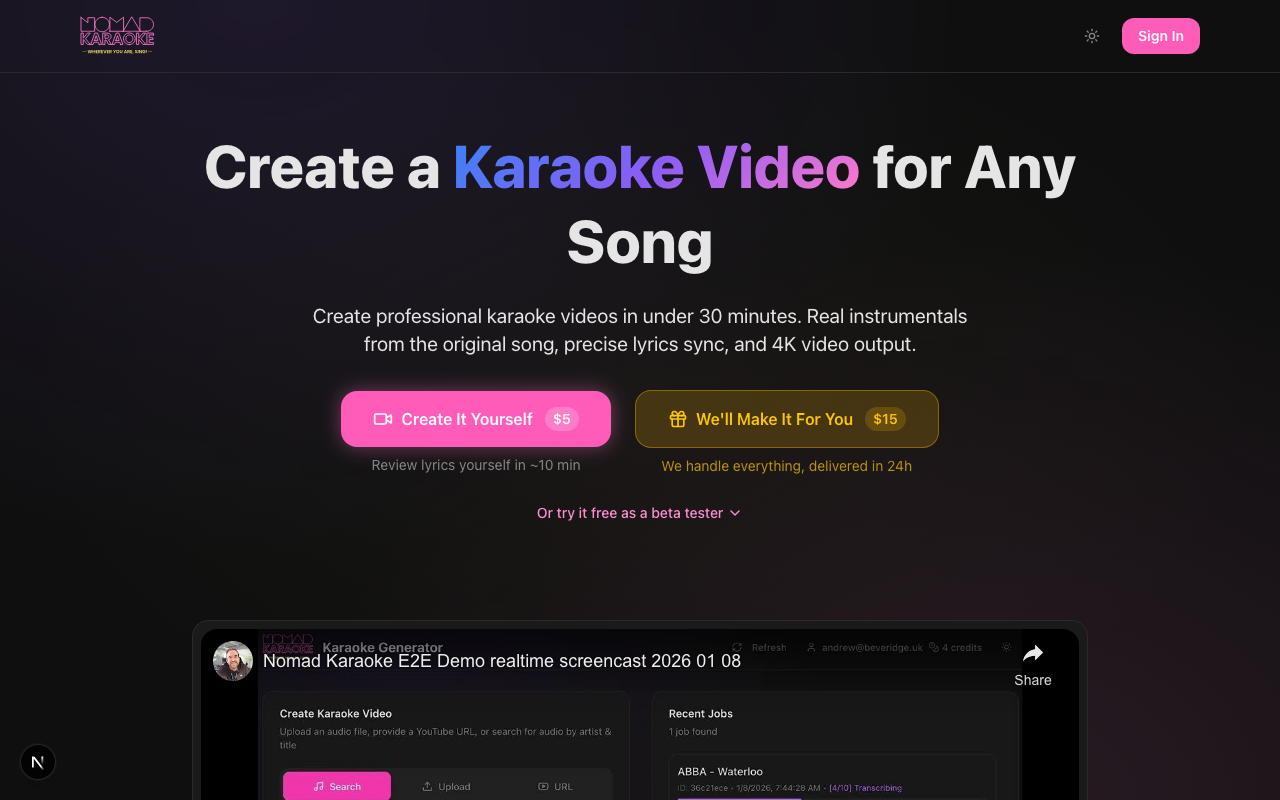
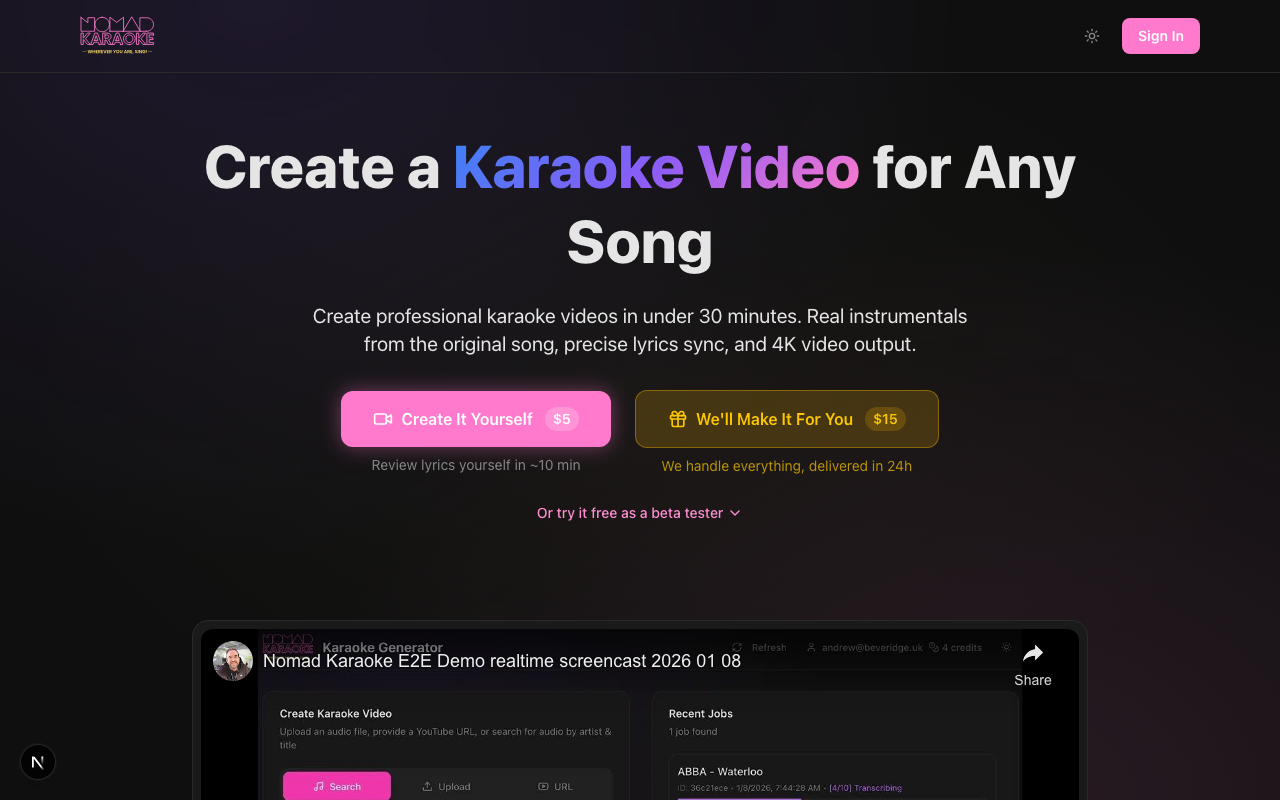
feat: add toggle to hide completed jobs in Recent Jobs list
Eye/EyeOff button filters out completed and failed jobs, showing only
incomplete (blocking + processing) jobs. Both the toggle and display
limit persist in localStorage across page reloads.

Changed region(s): [[0.25, 0.4688, 0.5, 0.5625], [0.875, 0.0, 0.9375, 0.0938]]

diff --git a/frontend/app/app/page.tsx b/frontend/app/app/page.tsx
@@ -15,7 +15,7 @@ import {
   SelectTrigger,
   SelectValue,
 } from "@/components/ui/select"
-import { Music2, RefreshCw, Loader2, Moon, Sun } from "lucide-react"
+import { Music2, RefreshCw, Loader2, Moon, Sun, Eye, EyeOff } from "lucide-react"
 import { sortJobsByPriority, getDisplayJobs } from "@/lib/job-status"
 import { WarmingUpLoader } from "@/components/WarmingUpLoader"
 import { JobCard } from "@/components/job"
@@ -44,15 +44,23 @@ function AppPageContent() {
   const { isDarkMode, toggleTheme, mounted } = useTheme()
   const { user, fetchUser, verifyMagicLink } = useAuth()
   const { showTestData } = useAdminSettings()
-  const [jobLimit, setJobLimit] = useState<number>(5)
+  const [jobLimit, setJobLimit] = useState<number>(() => {
+    if (typeof window === "undefined") return 5
+    const saved = localStorage.getItem("nomad-karaoke-job-limit")
+    return saved ? Number(saved) : 5
+  })
+  const [hideCompleted, setHideCompleted] = useState<boolean>(() => {
+    if (typeof window === "undefined") return false
+    return localStorage.getItem("nomad-karaoke-hide-completed") === "true"
+  })
 
   // Check if user is admin (for exclude_test parameter)
   const isAdmin = user?.role === "admin" || user?.email?.endsWith("@nomadkaraoke.com")
 
-  // Derive displayed jobs from allJobs + display limit (instant, no re-fetch)
+  // Derive displayed jobs from allJobs + display limit + filter (instant, no re-fetch)
   const { displayedJobs: jobs, totalFetched } = useMemo(
-    () => getDisplayJobs(allJobs, jobLimit),
-    [allJobs, jobLimit]
+    () => getDisplayJobs(allJobs, jobLimit, hideCompleted),
+    [allJobs, jobLimit, hideCompleted]
   )
 
   // Memoize loadJobs for use with visibility refresh
@@ -241,7 +249,33 @@ function AppPageContent() {
                 <CardTitle style={{ color: 'var(--text)' }}>Recent Jobs</CardTitle>
                 <div className="flex items-center gap-2">
                   {isLoadingJobs && <Loader2 className="w-4 h-4 animate-spin" style={{ color: 'var(--text-muted)' }} />}
-                  <Select value={String(jobLimit)} onValueChange={(v) => setJobLimit(Number(v))}>
+                  <TooltipProvider>
+                    <Tooltip>
+                      <TooltipTrigger asChild>
+                        <Button
+                          variant="ghost"
+                          size="sm"
+                          className="h-7 w-7 p-0"
+                          style={{ color: 'var(--text-muted)' }}
+                          onClick={() => {
+                            const next = !hideCompleted
+                            setHideCompleted(next)
+                            localStorage.setItem("nomad-karaoke-hide-completed", String(next))
+                          }}
+                        >
+                          {hideCompleted ? <EyeOff className="w-3.5 h-3.5" /> : <Eye className="w-3.5 h-3.5" />}
+                        </Button>
+                      </TooltipTrigger>
+                      <TooltipContent side="bottom">
+                        <p>{hideCompleted ? "Show all jobs" : "Hide completed jobs"}</p>
+                      </TooltipContent>
+                    </Tooltip>
+                  </TooltipProvider>
+                  <Select value={String(jobLimit)} onValueChange={(v) => {
+                    const val = Number(v)
+                    setJobLimit(val)
+                    localStorage.setItem("nomad-karaoke-job-limit", String(val))
+                  }}>
                     <SelectTrigger className="h-7 w-[80px] text-xs">
                       <SelectValue />
                     </SelectTrigger>
@@ -255,9 +289,11 @@ function AppPageContent() {
                 </div>
               </div>
               <CardDescription style={{ color: 'var(--text-muted)' }}>
-                {jobs.length < totalFetched
-                  ? `Showing ${jobs.length} of ${totalFetched} jobs`
-                  : `${jobs.length} job${jobs.length !== 1 ? 's' : ''}`}
+                {hideCompleted
+                  ? `${jobs.length} incomplete of ${totalFetched} total`
+                  : jobs.length < totalFetched
+                    ? `Showing ${jobs.length} of ${totalFetched} jobs`
+                    : `${jobs.length} job${jobs.length !== 1 ? 's' : ''}`}
               </CardDescription>
             </CardHeader>
             <CardContent className="px-3 sm:px-6">

diff --git a/frontend/__tests__/job-status.test.ts b/frontend/__tests__/job-status.test.ts
@@ -672,6 +672,42 @@ describe('getDisplayJobs', () => {
     expect(displayedJobs[4].status).toBe('complete');
   });
 
+  describe('hideCompleted filter', () => {
+    it('filters out complete and failed jobs when hideCompleted is true', () => {
+      const jobs = createSortedJobs({ blocking: 1, processing: 2, complete: 5, failed: 3 });
+      const { displayedJobs, totalFetched } = getDisplayJobs(jobs, -1, true);
+      expect(totalFetched).toBe(11);
+      expect(displayedJobs).toHaveLength(3);
+      expect(displayedJobs.every(j => j.status === 'awaiting_review' || j.status === 'rendering_video')).toBe(true);
+    });
+
+    it('respects display limit after filtering', () => {
+      const jobs = createSortedJobs({ blocking: 2, processing: 5, complete: 10 });
+      const { displayedJobs } = getDisplayJobs(jobs, 5, true);
+      // 7 incomplete jobs, all visible since incomplete count (7) > limit (5)
+      expect(displayedJobs).toHaveLength(7);
+    });
+
+    it('returns empty when all jobs are complete and hideCompleted is true', () => {
+      const jobs = createSortedJobs({ complete: 10 });
+      const { displayedJobs, totalFetched } = getDisplayJobs(jobs, 5, true);
+      expect(displayedJobs).toHaveLength(0);
+      expect(totalFetched).toBe(10);
+    });
+
+    it('does not filter when hideCompleted is false', () => {
+      const jobs = createSortedJobs({ blocking: 1, complete: 5, failed: 2 });
+      const { displayedJobs } = getDisplayJobs(jobs, -1, false);
+      expect(displayedJobs).toHaveLength(8);
+    });
+
+    it('defaults to showing all when hideCompleted is omitted', () => {
+      const jobs = createSortedJobs({ complete: 5, failed: 2 });
+      const { displayedJobs } = getDisplayJobs(jobs, -1);
+      expect(displayedJobs).toHaveLength(7);
+    });
+  });
+
   it('core bug: old incomplete job visible even when recent jobs are all completed', () => {
     // Simulate the bug scenario: 5 recent completed jobs + 1 older blocking job
     // With old behavior (LIMIT 5 at query), the blocking job would never be fetched.

diff --git a/frontend/lib/job-status.ts b/frontend/lib/job-status.ts
@@ -304,24 +304,30 @@ export function sortJobsByPriority(jobs: Job[]): Job[] {
  */
 export function getDisplayJobs(
   sortedJobs: Job[],
-  displayLimit: number
+  displayLimit: number,
+  hideCompleted: boolean = false
 ): { displayedJobs: Job[]; totalFetched: number } {
   const totalFetched = sortedJobs.length;
 
+  // Filter out completed/failed jobs when toggle is on
+  const filteredJobs = hideCompleted
+    ? sortedJobs.filter((job) => getJobPriority(job) <= 1)
+    : sortedJobs;
+
   // Show all: -1 or fewer jobs than limit
-  if (displayLimit === -1 || sortedJobs.length <= displayLimit) {
-    return { displayedJobs: sortedJobs, totalFetched };
+  if (displayLimit === -1 || filteredJobs.length <= displayLimit) {
+    return { displayedJobs: filteredJobs, totalFetched };
   }
 
   // Count incomplete jobs (priority 0 = blocking, 1 = processing)
-  const incompleteCount = sortedJobs.filter(
+  const incompleteCount = filteredJobs.filter(
     (job) => getJobPriority(job) <= 1
   ).length;
 
   // Show at least displayLimit jobs, but expand if there are more incomplete
   const showCount = Math.max(displayLimit, incompleteCount);
   return {
-    displayedJobs: sortedJobs.slice(0, showCount),
+    displayedJobs: filteredJobs.slice(0, showCount),
     totalFetched,
   };
 }
